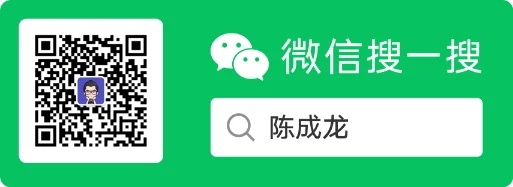
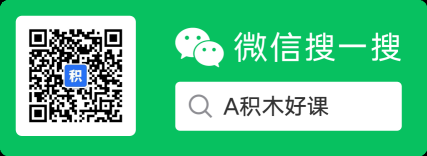
new wechat

diff --git a/src/content/posts/autocad-shx-fonts.md b/src/content/posts/autocad-shx-fonts.md
@@ -55,7 +55,7 @@ TCC_ROMA.SHX、TCC_ROMD.SHX、TCC_SIMP.SHX、TDHZTXT.SHX、TE.SHX、Te______.shx
 
 Txtgs.shx、TXT-han.shx、Txtj.shx、TXT-J1.SHX、Txtn.shx、txtold.shx、txt-old.shx、TxtPK.shx、txt-pm.shx、TXTR14.shx、Txts.shx、TXT-TB.SHX、TXTTJ.SHX、TXTWT.SHX、txtwz.shx、TXTXQ.SHX、txt-y.shx、txtyx.shx、txtzx.shx、TXX.SHX、UFONT.SHX、UFONTBM.SHX、UFONTFS.SHX、UNIV.SHX、UNIVCH.SHX、UNIVCL.SHX、UNIVH.SHX、UNIVHS.SHX、USER.SHX、VAR_5000.SHX、VAR_LINE.SHX、VERTICAL.SHX、visiohg.shx、visiojp.shx、visiotc.shx、VM-HD.SHX、VS.SHX、VSS.SHX、w1.shx、w1-1.shx、w1-2.SHX、W2.SHX、WB.SHX、WBF.SHX、WBJ.SHX、WBKFO2.SHX、WBKJO2.SHX、WCAD.SHX、Wcam.shx、WFYR.SHX、whgdtxt.shx、whgtxt.shx、WHS.SHX、whtgtxt.shx、whtmtxt.shx、Winmark.shx、wlc-c.shx、wlc-e1.shx、wlc-e2.shx、WLL.SHX、WORKING.SHX、WROMANS.shx、WTT1.SHX、WTX.SHX、wtxt.shx、WXX.SHX、wzs.shx、x1.shx、x2.shx、x3.shx、XC01.SHX、XC1.SHX、XC02.SHX、XC2.SHX、XC11.SHX、XC12.SHX、XC13.SHX、XC14.SHX、XC15.SHX、XC16.SHX、XC17.SHX、XC18.SHX、XC19.SHX、XC20.SHX、XC21.SHX、XC22.SHX、XC23.SHX、XC24.SHX、XC25.SHX、XC26.SHX、XC27.SHX、XC28.SHX、XC29.SHX、XC30.SHX、XC51.SHX、XC52.SHX、XC53.SHX、XC54.SHX、XC55.SHX、XC56.SHX、XC57.SHX、XC58.SHX、XC59.SHX、XC60.SHX、XC61.SHX、XC62.SHX、XC63.SHX、XC90.SHX、XC91.SHX、XC92.SHX、XC93.SHX、XCF.SHX、XCOO.shx、xcsg.shx、XDX.SHX、XDXT.SHX、XIAO.SHX、XK1F.SHX、XKKJO2.SHX、XKKJX2.SHX、XSKH.SHX、XW.SHX、XXX.SHX、XY.SHX、XYF.SHX
 
-XYJ.SHX、XYKFO2.SHX、XYKJO2.SHX、XYSTEEL.SHX、XZKJO2.SHX、y1.shx、Y1F.SHX、y2.shx、y3.shx、Y3F.SHX、y4.shx、YISUN1.SHX、yml.shx、YT64F.SHX、YUN.SHX、YUROMANS.SHX、YYXZT.SHX、Z.shx、z1.shx、z2.shx、z3.shx、z4.shx、ZANE.SHX、ZCAD.SHX、ZD.SHX、ZDM.SHX、ZG.SHX、ZI.SHX、zjdz.SHX、ZJFS.SHX、ZJST.SHX、zk.shx、ZM_HS.SHX、ZOY.SHX、zpl.SHX、ZSM.SHX、Ztxt.shx、ZY.SHX、ZYF.SHX、ZYJ.SHX、ZYKFO1.SHX、ZYKFO2.SHX、ZYKJO2.SHX、ZYT.SHX、ZZSHX.shx、仿宋.shx、工程汉字.shx、寒鹰西文.shx、寒鹰中文.shx、结构1.shx、楷体TTF.shx、楷体TTFbig.shx、宋体.shx、宋体big.shx、宋体TTf.shx、宋体TTfbig.shx、西文.shx、斜体西文.shx、正体西文.shx、中文.shx、@~!HZTXT.SHX、@1-gbcbig.shx、@augjpvt.shx、@extfont2.shx、*HZTXT.SHX、*宋体hztxt.shx、~hzdx.shx、~HZTXT.SHX、0.SHX、1.SHX、1hztxt.shx、12hztxt.shx、12txt.shx、14HZTXT.SHX、14TXT.SHX、31A.SHX、31B.SHX、32A.SHX、32B.SHX、33A.SHX、33B.SHX、34A.SHX、34B.SHX、35A.SHX、35B.SHX、36A.SHX、36B.SHX、37A.SHX、37B.SHX、38A.SHX、38B.SHX、39A.SHX、39B.SHX、40A.SHX、40B.SHX、41A.SHX、41B.SHX、42A.SHX、42B.SHX、43A.SHX、43B.SHX、44A.SHX、44B.SHX、45A.SHX、45B.SHX、46A.SHX、46B.SHX、47A.SHX、47B.SHX、48A.SHX、48B.SHX、49A.SHX、49B.SHX、50A.SHX、50B.SHX、51A.SHX、51B.SHX、52A.SHX、52B.SHX、53A.SHX、53B.SHX、54A.SHX、54B.SHX、55A.SHX、55B.SHX、99.SHX、102.SHX、161.SHX、162.SHX、168.shx、169.shx、171.SHX、172.SHX
+XYJ.SHX、XYKFO2.SHX、XYKJO2.SHX、XYSTEEL.SHX、XZKJO2.SHX、y1.shx、Y1F.SHX、y2.shx、y3.shx、Y3F.SHX、y4.shx、YISUN1.SHX、yml.shx、YT64F.SHX、YUN.SHX、YUROMANS.SHX、YYXZT.SHX、Z.shx、z1.shx、z2.shx、z3.shx、z4.shx、ZANE.SHX、ZCAD.SHX、ZD.SHX、ZDM.SHX、ZG.SHX、ZI.SHX、zjdz.SHX、ZJFS.SHX、ZJST.SHX、zk.shx、ZM_HS.SHX、ZOY.SHX、zpl.SHX、ZSM.SHX、Ztxt.shx、ZY.SHX、ZYF.SHX、ZYJ.SHX、ZYKFO1.SHX、ZYKFO2.SHX、ZYKJO2.SHX、ZYT.SHX、ZZSHX.shx、仿宋.shx、工程汉字.shx、寒鹰西文.shx、寒鹰中文.shx、结构1.shx、楷体TTF.shx、楷体TTFbig.shx、宋体.shx、宋体big.shx、宋体TTf.shx、宋体TTfbig.shx、西文.shx、斜体西文.shx、正体西文.shx、中文.shx、@~!HZTXT.SHX、@1-gbcbig.shx、@augjpvt.shx、@extfont2.shx、HZTXT.SHX、宋体hztxt.shx、~hzdx.shx、~HZTXT.SHX、0.SHX、1.SHX、1hztxt.shx、12hztxt.shx、12txt.shx、14HZTXT.SHX、14TXT.SHX、31A.SHX、31B.SHX、32A.SHX、32B.SHX、33A.SHX、33B.SHX、34A.SHX、34B.SHX、35A.SHX、35B.SHX、36A.SHX、36B.SHX、37A.SHX、37B.SHX、38A.SHX、38B.SHX、39A.SHX、39B.SHX、40A.SHX、40B.SHX、41A.SHX、41B.SHX、42A.SHX、42B.SHX、43A.SHX、43B.SHX、44A.SHX、44B.SHX、45A.SHX、45B.SHX、46A.SHX、46B.SHX、47A.SHX、47B.SHX、48A.SHX、48B.SHX、49A.SHX、49B.SHX、50A.SHX、50B.SHX、51A.SHX、51B.SHX、52A.SHX、52B.SHX、53A.SHX、53B.SHX、54A.SHX、54B.SHX、55A.SHX、55B.SHX、99.SHX、102.SHX、161.SHX、162.SHX、168.shx、169.shx、171.SHX、172.SHX
 
 ### **字体下载地址：**
 

diff --git a/src/content/posts/download-photoshop2026.md b/src/content/posts/download-photoshop2026.md
@@ -17,9 +17,9 @@ image: "https://cdn.jimuhaoke.com/2025/ps.webp"
 
 即可获取高速下载安装包。
 
-公众号名称：积木好课
+公众号名称：A积木好课
 
-![微信扫码关注积木好课公众号](https://cdn.jimuhaoke.com/img/%E7%A7%AF%E6%9C%A8%E5%A5%BD%E8%AF%BE%E5%BE%AE%E4%BF%A1%E5%85%AC%E4%BC%97%E5%8F%B7.webp)
+![微信扫码关注积木好课公众号](/assets/images/public-wechat.webp)
 
 微信扫码关注积木好课公众号
 

diff --git a/src/content/posts/download-setup-autocad2027/index.md b/src/content/posts/download-setup-autocad2027/index.md
@@ -8,7 +8,7 @@ draft: false
 image: "https://cdn.jimuhaoke.com/2025/CAD%E4%B8%8B%E8%BD%BD%E5%AE%89%E8%A3%85.webp"
 ---
 ### 第一步：下载安装包  
-关注微信公众号：陈成龙  
+关注微信公众号：A积木好课  
 回复关键词：CAD2027  
 ![微信公众号](../public-wechat.webp)
 ### 第二步：安装主程序  

diff --git a/src/content/spec/about.md b/src/content/spec/about.md
@@ -20,7 +20,7 @@ chenglongchen#qq.com
 为了避开搜索引擎，#请替换为@
 
 ## 🌏微信公众号：  
-公众号名称：陈成龙  
+公众号名称：A积木好课 
 ![积木好课微信公众号](/assets/images/public-wechat.webp)
 
 ## 🧯远程协助  
